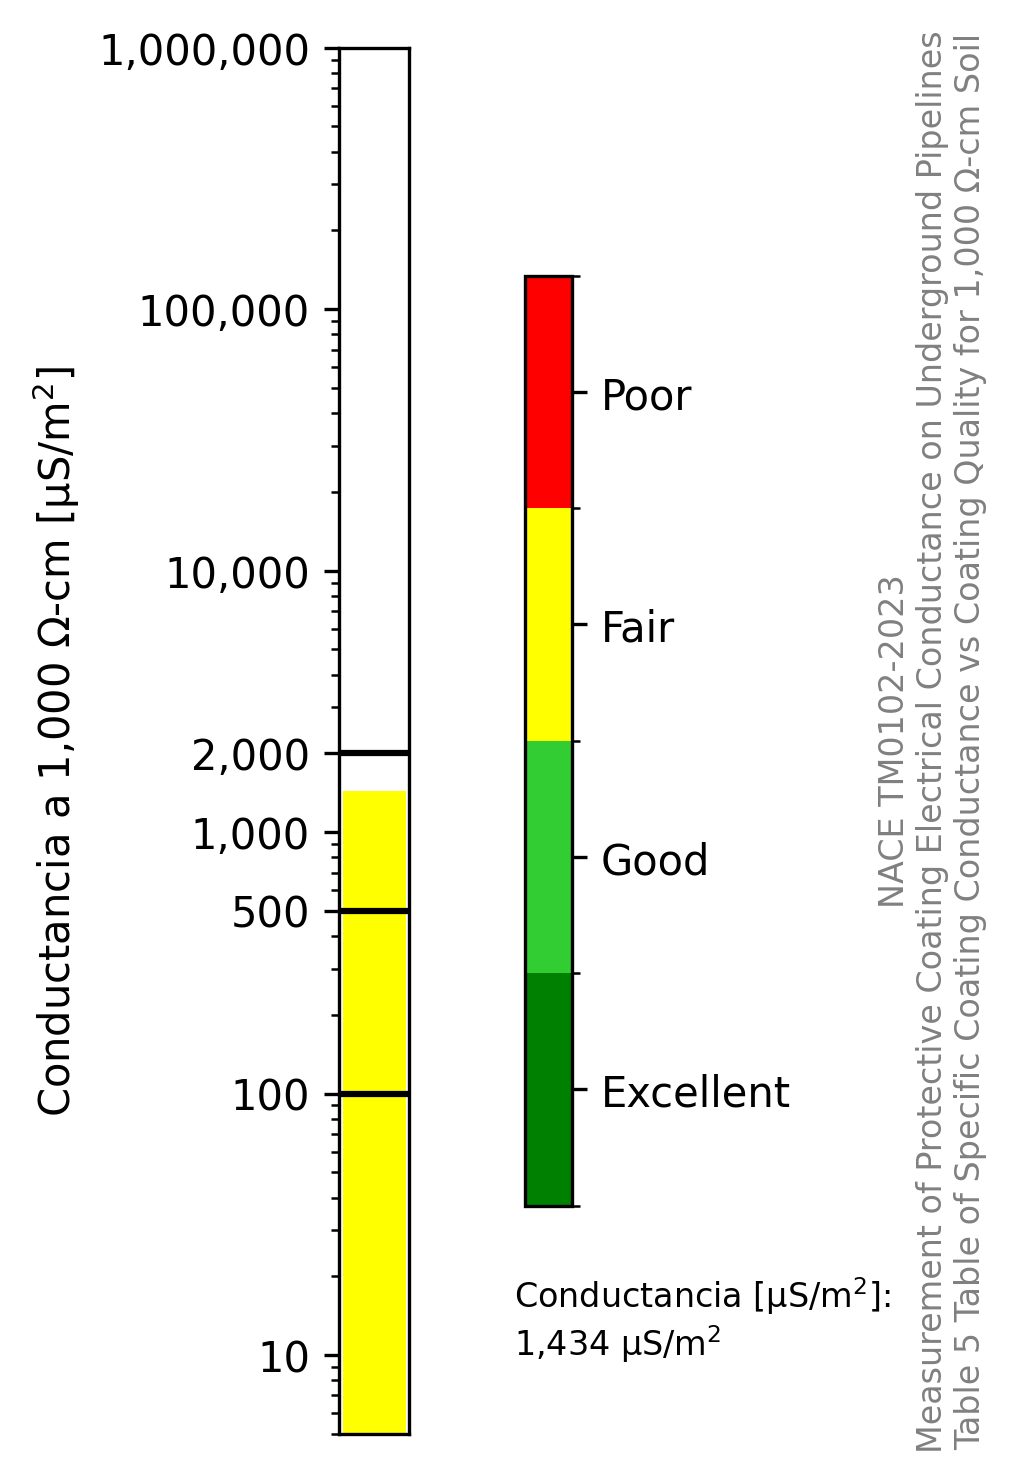
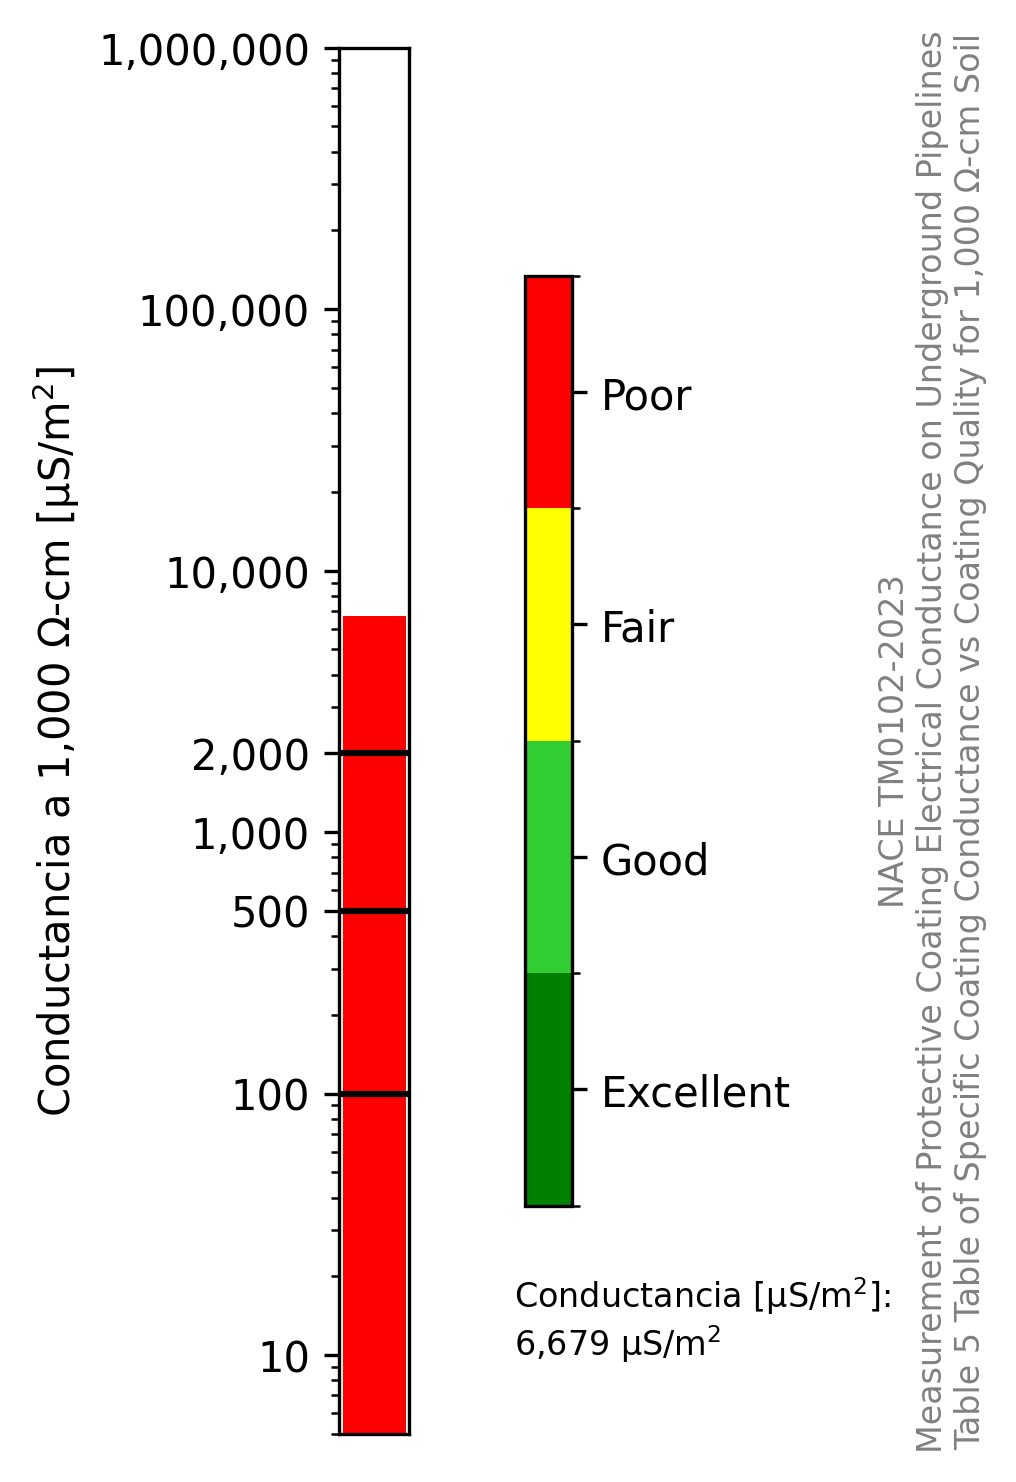
Refactor Conductancia_específica.py to conditionally display NACE-TM0102 results based on tipo_coating

Changed region(s): [[0.3356, 0.4035, 0.3967, 0.9933], [0.4882, 0.9001, 0.6102, 0.9312]]

diff --git a/pages/Conductancia_específica.py b/pages/Conductancia_específica.py
@@ -142,10 +142,10 @@ def Conductancia_específica():
                         elif tipo=='Distribución de Gas o Agua, con muchas ramificaciones':
                             tuberias_distribucion(valor_conductancia)
                             st.image('images/tuberias_distribucion.png', caption='Tuberías largas con pocas ramificaciones', use_container_width=True)
-                            
-                    tuberias_TM0102(valor_conductancia)    
-                    st.header("5.1.-Resultados NACE-TM0102")
-                    st.image('images/barras_TM0102.png', caption='Conductancia específica μS/m² y clasificación - NACE-TM0102', width=300)
+                    if tipo_coating:
+                        tuberias_TM0102(valor_conductancia)    
+                        st.header("5.1.-Resultados NACE-TM0102")
+                        st.image('images/barras_TM0102.png', caption='Conductancia específica μS/m² y clasificación - NACE-TM0102', width=300)
 
                             
 
